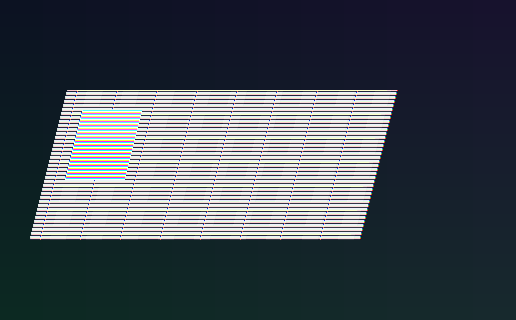
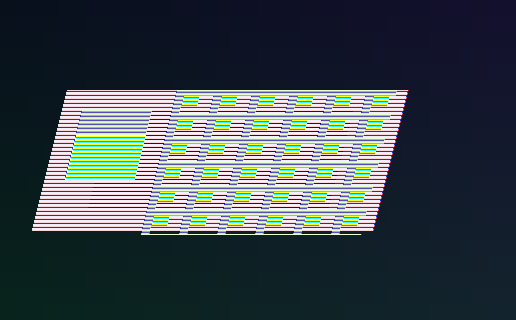
Finalize widget package naming and docs

Changed region(s): [[0.062, 0.2812, 0.8062, 0.75], [0.2171, 0.2812, 0.2481, 0.3125], [0.093, 0.5625, 0.124, 0.5938]]

diff --git a/README.md b/README.md
@@ -1,19 +1,33 @@
-# Liquid Calendar Widget
+# Liquid Glass Calendar
 
-A glassmorphism-style calendar widget for Übersicht with drag-and-resize support.
+A polished glassmorphism-style calendar widget for Übersicht with drag-and-resize support.
+
+## What it does
+
+- Shows the current day, month, and year in a clean glass card
+- Displays a compact calendar grid for the current month
+- Lets you drag the widget around the screen
+- Lets you resize the widget from the edges
+- Remembers its position and size between sessions
 
 ## Files
 
-- `widget.json` — widget manifest for the gallery
-- `liquid-calendar.widget` — the packaged widget folder
-- `screenshot.png` — preview image
+- `widget.json` — widget manifest for the Übersicht widget gallery
+- `liquid-glass-calendar.widget/` — the packaged widget folder
+- `screenshot.png` — preview image for GitHub
 
 ## Installation
 
 1. Download or clone this repository.
-2. Copy the `liquid-calendar.widget` folder into your Übersicht widgets directory.
+2. Copy the `liquid-glass-calendar.widget` folder into your Übersicht widgets directory.
 3. Reload Übersicht.
 
 ## Notes
 
-The widget uses the native Übersicht React-style component format and supports basic drag/resize persistence through browser local storage.
+This widget uses the native Übersicht React-style component format and stores layout state in browser `localStorage`.
+
+## Author
+
+Emmanuel Baraka
+
+If you want to reach out, you can do so through the GitHub profile associated with this repository.